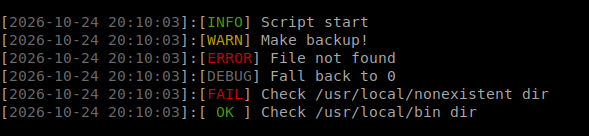
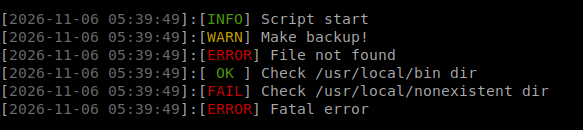
chore: README update & return readonly for BASH_HELPERS_VERSION

diff --git a/README.md b/README.md
@@ -16,7 +16,7 @@
 - [Idempotent source](#idempotent-source)
 
 ### Built-in CLI
-Out-of-box handling `-h`/`--help`, `-v`/`--version`, `-d`/`--debug`.
+Out-of-the-box handling `-h`/`--help`, `-v`/`--version`, `-d`/`--debug`.
 
 `example.sh -h`\
 ![Help example][Help example img]
@@ -45,7 +45,7 @@ printf '%s\n' "$(bold)$(red)ATTENTION!$(clr) Save $(cyan)failure$(clr)."
 </details>
 
 ### Formatted messages
-`error`, `inform`, `warning`, `debug`, `status`, `status_dbg`.
+`error`, `inform`, `warning`, `debug`, `status`, `status_dbg`, `die`.
 
 <details>
 <summary>Examples</summary>
@@ -55,10 +55,10 @@ inform 'Script start'
 warning 'Make backup!'
 error 'File not found'
 debug 'Fall back to 0'
-test -d /usr/local/nonexistent
-status 'Check /usr/local/nonexistent dir' $?
 test -d /usr/local/bin
 status 'Check /usr/local/bin dir' $?
+test -d /usr/local/nonexistent
+status 'Check /usr/local/nonexistent dir' $? || die
 ```
 ![Messages formatting][Messages formatting img]
 
@@ -81,7 +81,7 @@ status 'Check /usr/local/bin dir' $?
 <summary>Example</summary>
 
 ```bash
-check_dependencies yarn rust || exit 1
+check_dependencies yarn rust || die
 ```
 ![Check dependencies][Check dependencies img]
 </details>
@@ -92,9 +92,9 @@ check_dependencies yarn rust || exit 1
 <summary>Examples</summary>
 
 ```bash
-include google/client || exit 1
-include mysql/query-builder || exit 1
-include logger; status 'Logger including' $? || exit 1
+include google/client || die
+include mysql/query-builder || die
+include logger; status 'Logger including' $? || die
 ```
 </details>
 
@@ -115,6 +115,9 @@ status_dbg 'Visible because of DEBUG variable' $?
 ```
 ![Debug messages][Debug messages img]
 </details>
+
+> [!NOTE]
+> Unknown statuses trigger a warning and return 2.
 
 ### Idempotent source
 Safe to source multiple times; existing function overrides are preserved.
@@ -367,8 +370,12 @@ By default `include()` loads files from a fixed path:
 If you need a different location, use `BASH_HELPERS_INCLUDES` or redefine `include()` in your script.
 
 ## Update
-Just load new version bash-helpers.sh over current.
+Overwrite `bash-helpers.sh` with the new version.
 Example of bash-function [`update-bash-helpers`][Update-bash-helpers url].
+
+> [!NOTE]
+> After updating, start a fresh shell (`exec bash`) to load the new version.
+> Loaded functions and constants stay in memory otherwise.
 
 ## Dependencies
 
@@ -402,6 +409,7 @@ Required only when you call the corresponding function.
 | `error`, `inform`, `warning`, `debug` | `date`, `printf` (builtin)     |
 | `status`, `status_dbg`                | `date`, `printf` (builtin)     |
 | `check_dependencies`                  | `date`, `command -v` (builtin) |
+| `die`                                 | `date`, `printf` (builtin)     |
 | `float`                               | `sed`, `bc`                    |
 | `include`                             | - (pure bash)                  |
 | `usage_help`, `print_version`         | `basename`, `realpath`         |
@@ -413,10 +421,10 @@ Required only when you call the corresponding function.
 Use the bundled helper to verify dependencies before running your script:
 
 ```bash
-check_dependencies curl jq || exit 1
+check_dependencies curl jq || die
 ```
 > [!IMPORTANT]
-> Under `set -e`, call `check_dependencies ... || exit 1` so warnings are visible before exit.
+> Under `set -e`, call `check_dependencies ... || die` so warnings are visible before exit.
 
 ## Versioning
 [Semantic Versioning](https://semver.org). Function signatures are part of the public API.
